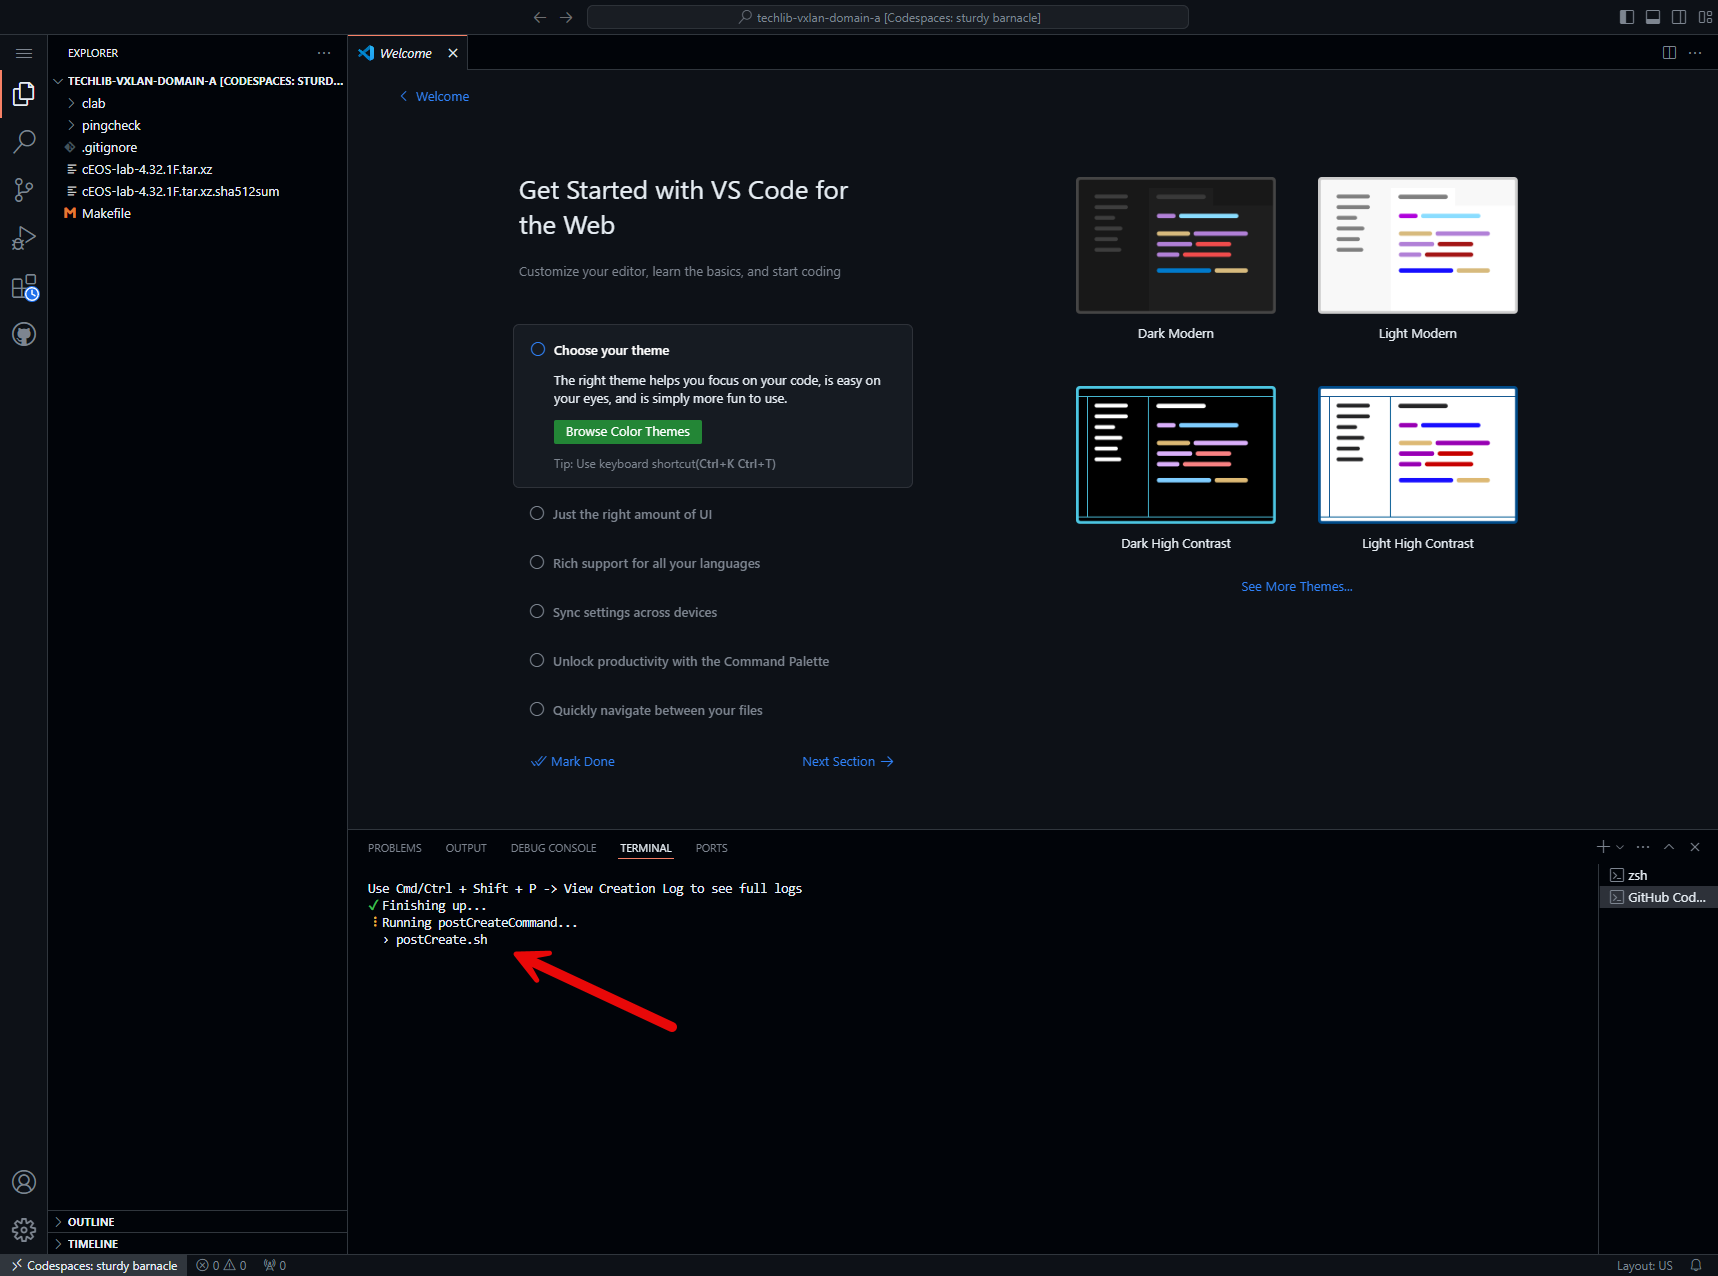
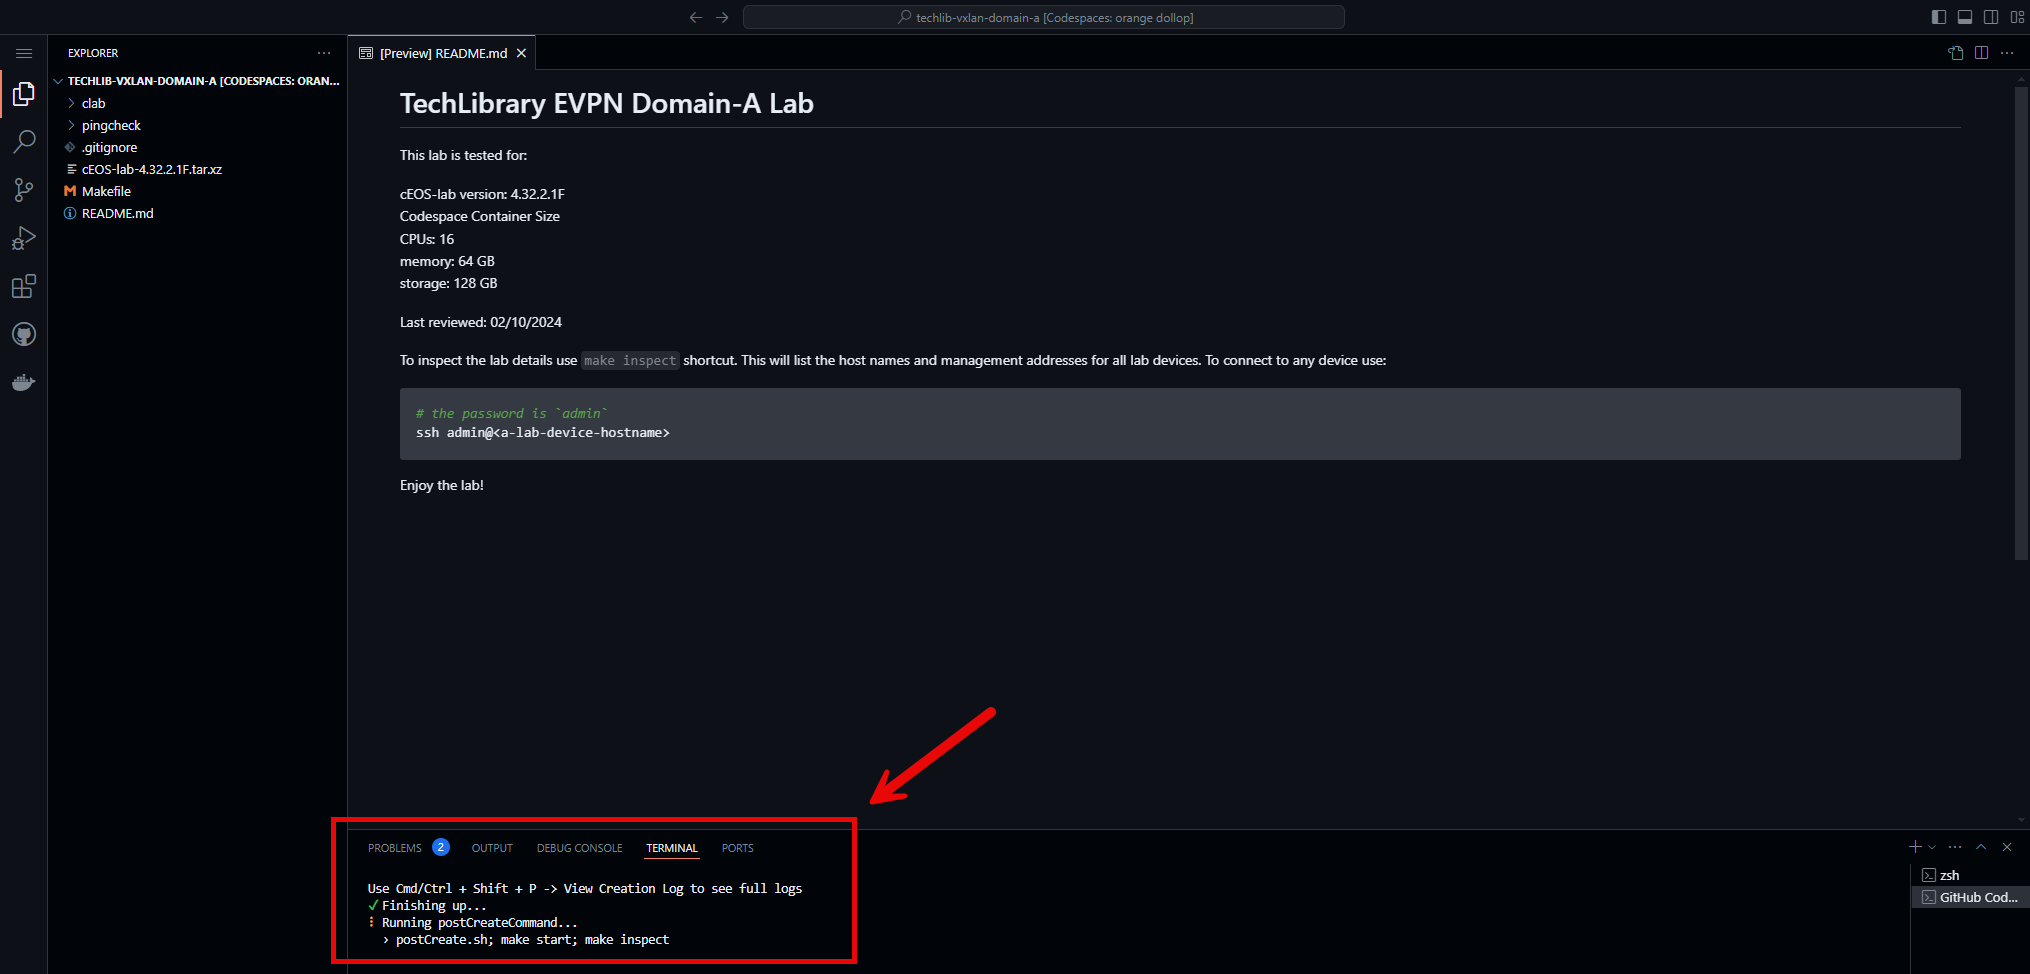
update quickstart guide

diff --git a/docs/aclabs-quickstart.md b/docs/aclabs-quickstart.md
@@ -1,18 +1,16 @@
 # Getting started with Arista Community Labs
 
-This guide is intended for individuals looking to familiarize themselves with the steps necessary to spin up an Arista Community Labs topology hosted via [GitHub Codespaces](https://github.com/features/codespaces/).
-
-A deep understanding of GitHub Codespaces is not required to begin using Arista Community Labs. Those seeking more information on how GitHub Codespaces provides the foundation for Arista Community Labs can find this information and more in the [Codespaces Quickstart Guide](./codespaces-quickstart.md).
+This guide is intended for individuals looking to familiarize themselves with the steps necessary to get started with Arista Community Labs, powered by [GitHub Codespaces](https://github.com/features/codespaces/).
 
 ## Pre-Requisites
 
 Before launching an Arista Community Lab, we need to ensure we have the following:
 
-1. An [Arista](https://www.arista.com) account with the ability to download cEOS-lab via [Software Downloads](https://www.arista.com/en/support/software-download)
-2. A [GitHub account](https://github.com/signup)
-3. Our [Arista user token](https://www.arista.com/en/users/profile)
+1. [Arista](https://www.arista.com) account with the ability to download cEOS-lab via [Software Downloads](https://www.arista.com/en/support/software-download)
+2. [GitHub account](https://github.com/signup)
+3. [Arista user token](https://www.arista.com/en/users/profile)
 
-We can find our user token by logging into [arista.com](https://www.arista.com) and selecting `My Profile`.
+We can find the user token by logging into [arista.com](https://www.arista.com) and selecting `My Profile`.
 
 The tabs below illustrate the steps needed to locate and copy the token:
 
@@ -37,10 +35,10 @@ The tabs below illustrate the steps needed to locate and copy the token:
 ??? question "What's with the token? :coin:"
     When an Arista Community Lab is started, the user token will be used to automatically download and import the necesary cEOS-lab image into the lab environment
 
-## Starting a Lab
+## Starting the Lab
 
 !!! note
-    Throughout this guide, we will use the [EVPN Domain A](https://codespaces.new/aristanetworks/aclabs/tree/main?quickstart=1&devcontainer_path=.devcontainer%2Ftechlib-vxlan-domain-a%2Fdevcontainer.json) lab associated with the [EVPN/VXLAN Deployment Guide](https://tech-library.arista.com/data_center/evpnvxlan/deployment_guide/) on [Arista's Tech Library](https://tech-library.arista.com) as reference point. All community labs hosted via Codespaces will follow the same process.
+    Throughout this guide, the [EVPN Domain A](https://codespaces.new/aristanetworks/aclabs/tree/main?quickstart=1&devcontainer_path=.devcontainer%2Ftechlib-vxlan-domain-a%2Fdevcontainer.json) lab associated with the [EVPN/VXLAN Deployment Guide](https://tech-library.arista.com/data_center/evpnvxlan/deployment_guide/) on [Arista's Tech Library](https://tech-library.arista.com) will be used as a reference point. All community labs hosted via Codespaces will follow the same process.
 
 Once a lab has been launched via it's respective 'Start Lab' button, a `Create Codespace` window will be opened via a web browser:
 
@@ -49,140 +47,118 @@ Once a lab has been launched via it's respective 'Start Lab' button, a `Create C
 <figcaption> Create a Codespace - Enter our user token </figcaption>
 </figure>
 
-In the `ARTOKEN` field, we will paste the user token copied from our arista.com user profile. This is a one time requirement, and will be saved for all of our subsequent Arista Community Lab deployments.
+In the `ARTOKEN` field, paste the user token copied from the arista.com user profile. This is a one time requirement, and will be saved for all subsequent Arista Community Lab deployments.
 
 ??? question "Where is the token saved? :thinking:"
-    Once entered, the token is saved as a GitHub Codespaces `Secret`. This can be viewed via the [Codespaces section of our GitHub account settings](https://github.com/settings/codespaces).
+    Once entered, the token is saved as a GitHub Codespaces `Secret`. This can be viewed via the [Codespaces section of GitHub account settings](https://github.com/settings/codespaces).
 
 ??? note "Watch the expiration date! :hourglass_flowing_sand:"
     User tokens on arista.com have an expiration date associated with them, listed in the `Token Valid Till` field in the `Portal Access` section of the user profile.
 
     If the token has expired, simply click `Regenerate Token` to create a new one. A token expires one year after it was generated; This value cannot be modified by the user.
 
-Once we've pasted in our token and selected `Create new Codespace`, a new tab will open in our browser containing the codespace
+Once the token has been entered, and `Create new Codespace` has been selected, a new tab will open in the browser containing the codespace
 
 ??? question "Wait...the codespace opened in my local VS Code!"
-    Not a problem - this just means that VS Code is locally installed and `Visual Studio Code` is selected in the `Editor preference` section of our [GitHub account's Codespaces settings](https://github.com/settings/codespaces).
+    Not a problem - this just means that VS Code is locally installed and `Visual Studio Code` is selected in the `Editor preference` section of the [GitHub account's Codespaces settings](https://github.com/settings/codespaces).
 
-In our newly launched Codespace, we will see the `Post Deploy Script` running in the terminal. This script is getting our lab enviornment ready to launch, and may take a few minutes to complete.
+In the newly launched Codespace, a tab is opened displaying an overview of the lab.
+
+The `Post Deploy Script` can be seen running in the terminal, and will take a few minutes to complete.
+
+<figure markdown>
+![Post Deployment Script](/assets/img/aclabs-quickstart-postdeploy.png "Post Deploy"){ width=800px }
+<figcaption>Post Deploy Script Running (Click to Zoom)</figcaption>
+</figure>
 
 !!! note "Grab a coffee! :coffee:"
     The post deployment script can take a few minutes to run. Grab a coffee while the lab environment is being created.
 
-Once complete, we will be presented with the `Welcome` page. We can use this page to choose a different color theme, or simply close it out. We will also see our GitHub account name and lab shown in the terminal prompt of the Codespace.
+Once the post deployment script has completed, the terminal prompt will change to the GitHub username followed by the name of the lab.
 
-At this point, we can `Maximize Terminal` to ensure we have adequate real estate when opening SSH sessions to nodes in our lab topology.
+In the screenshot below, the GitHub username is `MitchV85` and the lab is `techlib-vxlan-domain-a`.
 
-Once the terminal has been maximized, it's time to `Start the Lab` be entering the following command at the terminal:
+<figure markdown>
+![Post Deployment Script](/assets/img/aclabs-quickstart-postdeploy-complete.png "Post Deploy"){ width=800px }
+<figcaption>Post Deploy Script Complete (Click to Zoom)</figcaption>
+</figure>
+
+At this point, the lab is ready to go! Running the following command in the terminal will provide an overview and status of all deployed nodes:
 
 ```bash
-make start
+make inspect
 ```
 
-After starting the lab, we will see a series of `Informational Output` scroll across the terminal as the lab is being instantiated.
+<figure markdown>
+![Post Deployment Script](/assets/img/aclabs-quickstart-make-inspect.png "Post Deploy"){ width=800px }
+<figcaption>Lab Status Output (Click to Zoom)</figcaption>
+</figure>
 
-When complete, the terminal will display a table containing a `Lab Deployment Summary`. This includes information related to the nodes that were deployed when creating the lab.
+## Interacting with the Lab
 
-=== "Post Deploy Script"
+### SSH
+
+Once the lab is up and running, we can use the terminal in our Codespace to SSH into the nodes.
+
+??? tip "More real estate for those SSH sessions 🏠"
+    Increase the size of the terminal by selecting the `Maximize Panel Size` button to the right of the terminal:
+
     <figure markdown>
-    ![acLab Post Deploy](/assets/img/aclabs-quickstart-postdeploy.png "Post Deploy"){ width=800px }
-    <figcaption>Post Deploy Script (Click to Zoom)</figcaption>
+    ![Post Deployment Script](/assets/img/aclabs-quickstart-maximize-panel.png "Post Deploy"){ width=800px }
+    <figcaption>Maximize the Terminal (Click to Zoom)</figcaption>
     </figure>
 
-=== "Welcome"
-    <figure markdown>
-    ![Codespace Welcome](/assets/img/aclabs-quickstart-welcome.png "Codespace Welcome"){ width=800px }
-    <figcaption>Codespace Welcome (Click to Zoom)</figcaption>
-    </figure>
+??? tip "Use tabs 📑"
+    Create a new tab for an SSH session by selecting `New Terminal` to the right of the terminal.
 
-=== "Maximize Terminal"
-    <figure markdown>
-    ![Maximize Panel](/assets/img/aclabs-quickstart-maximizepanel.png "Maximize Panel"){ width=800px }
-    <figcaption>Maximize Terminal Window (Click to Zoom)</figcaption>
-    </figure>
+    Alternatively, the following keyboard shortcut can be used to open a new tab on both Windows and macOS: ++ctrl+shift+single-quote++
 
-=== "Start the Lab"
-    <figure markdown>
-    ![Start Lab](/assets/img/aclabs-quickstart-make-start.png "Start Lab"){ width=800px }
-    <figcaption>Start the Lab (Click to Zoom)</figcaption>
-    </figure>
+    Once opened, the new terminal tab can be renamed by right-clicking on the tab and selecting `Rename`
 
-=== "Informational Output"
-    <figure markdown>
-    ![Info Output](/assets/img/aclabs-quickstart-info-output.png "Info Output"){ width=800px }
-    <figcaption>Informational Output (Click to Zoom)</figcaption>
-    </figure>
+    === "New Terminal"
+        <figure markdown>
+        ![Post Deployment Script](/assets/img/aclabs-quickstart-new-tab.png "Post Deploy"){ width=800px }
+        <figcaption>New Terminal Tab (Click to Zoom)</figcaption>
+        </figure>
 
-=== "Lab Deployment Summary"
-    <figure markdown>
-    ![Lab Summary](/assets/img/aclabs-quickstart-lab-deploy-success.png "Lab Summary"){ width=800px }
-    <figcaption>Lab Deployment Summary (Click to Zoom)</figcaption>
-    </figure>
+    === "Rename the Tab"
+        <figure markdown>
+        ![Post Deployment Script](/assets/img/aclabs-quickstart-rename-tab.png "Post Deploy"){ width=800px }
+        <figcaption>Rename the Terminal Tab (Click to Zoom)</figcaption>
+        </figure>
 
-## Interacting with a Lab
+    === "Party Time 🎉"
+        <figure markdown>
+        ![Post Deployment Script](/assets/img/aclabs-quickstart-renamed-tabs.png "Post Deploy"){ width=800px }
+        <figcaption>Rename the Terminal Tab (Click to Zoom)</figcaption>
+        </figure>
 
-Once the lab has been deployed, we can use the terminal in our Codespace to SSH into the nodes.
-
-A list of `Lab Hosts` that are accessible via `SSH` can be viewed at any time from the terminal by entering the following command:
+A list of `Lab Hosts` that are accessible via `SSH` from within the codespace can be viewed at any time from the terminal by entering the following command:
 
 ```bash
-sudo clab inspect -a
+make inspect
 ```
 
-To access an EOS host via our Codespace termianl, use the `ssh` command followed by the host name as shown below
+To access a node, use the `ssh` command followed by `admin@hostname` as shown in the example below
 
 ```bash
-ssh A-SPINE1
-```
-
-Access to Ubuntu hosts requires that the `admin` username be defined as a part of the ssh command:
-
-```bash
-ssh admin@HostA1
+ssh admin@A-SPINE1
 ```
 
 !!! question "What's the password? :lock:"
     Unless stated otherwise, the default username of `admin` and password of `admin` is used for all nodes in an Arista Community lab
 
-Once connected, we can interact with the lab as needed.
+### API
 
-=== "Lab Hosts"
-    <figure markdown>
-    ![Available Hosts](/assets/img/aclabs-quickstart-availablehosts.png "Available Hosts"){ width=800px }
-    <figcaption>Lab Hosts Accessible via SSH (Click to Zoom)</figcaption>
-    </figure>
-
-=== "SSH"
-    <figure markdown>
-    ![SSH](/assets/img/aclabs-quickstart-ssh-to-host.png "SSH"){ width=800px }
-    <figcaption>SSH to a Lab Host (Click to Zoom)</figcaption>
-    </figure>
+All nodes are accessible via API from within the codespace. The codespace comes pre-packaged with tools such as Python and the Arista [AVD](https://galaxy.ansible.com/ui/repo/published/arista/avd/), [CVP](https://galaxy.ansible.com/ui/repo/published/arista/cvp/), and [EOS](https://galaxy.ansible.com/ui/repo/published/arista/eos/) Ansible Galaxy collections.
 
 ## Stopping the Lab
 
-When we're finished with our lab, we can spin down the environment by issuing the following command in the terminal of our Codespace:
-
-```bash
-make stop
-```
-
-Once the lab has stopped, we can then choose to stop or delete our codespace by selecting the `Remote Window` button in the lower lefthand corner of our Codespace, and then choosing `Stop Current Codespace` or `My Codespaces`
-
-<figure markdown>
-![Stop Codespace](/assets/img/aclabs-quickstart-stop-codespace.png "Stop Codespace"){ width=800px }
-<figcaption>Stop or Delete Codespace (Click to Zoom)</figcaption>
-</figure>
-
-If we choose `My Codespaces`, this will open a webpage containing a list of [our current GitHub Codespaces](https://github.com/codespaces/). From here, we can locate our Codespace used for this session and stop or delete it if desired.
-
-<figure markdown>
-![My Codespaces](/assets/img/aclabs-quickstart-my-codespaces.png "My Codespaces"){ width=800px }
-<figcaption>Our Current Codespaces (Click to Zoom)</figcaption>
-</figure>
+When finished with the lab, simply close the codespace by exiting the browser window. By default, a GitHub Codespace will be stopped after being idle for 45 minutes and deleted after 30 days of inactivity.
 
 !!! question "What if I forget about my lab? :scream:"
-    By default, GitHub Codespaces will be stopped after being idle for 45 minutes and deleted after 30 days of inactivity.
-
     The `Default idle timeout` and `Default retention period` values can be modified under our [GitHub account's Codespaces settings](https://github.com/settings/codespaces).
+
+A list of all codespaces can be found in the [Codespaces section of GitHub](https://github.com/codespaces). From here, a codespace can be resumed, stopped, deleted, renamed, and more!
 
 :test_tube: Happy labbing! :test_tube:
